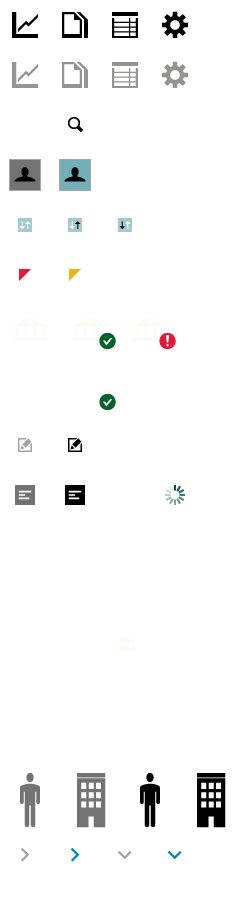
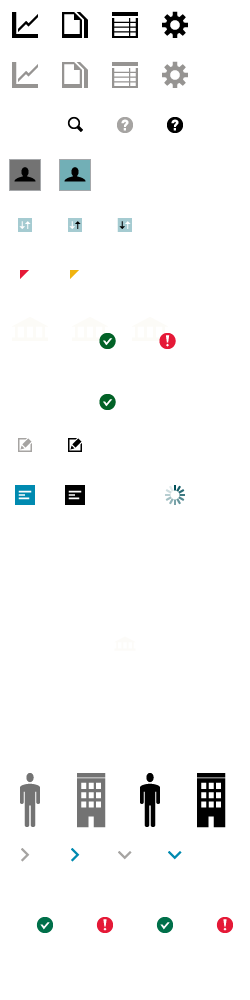
Add verification status to customer page

diff --git a/static/less/customer.less b/static/less/customer.less
@@ -7,17 +7,42 @@
     background-color: @byzantiumPurple100;
 
     .icon {
-      margin: 12px 22px 12px 22px;
-      width: 25px;
+      margin: 10px 22px 0px 22px;
+      width: 40px;
       height: 50px;
 
       &.business-info {
-        background-position: -160px -720px;
+        &.verified {
+          background-position: -135px -885px;
+        }
+        &.unverified {
+          background-position: -195px -885px;
+        }
       }
 
       &.person-info {
-        background-position: -110px -720px;
+        &.verified {
+          background-position: -15px -885px;
+        }
+        &.unverified {
+          background-position: -75px -885px;
+        }
       }
     }
+  }
+}
+
+.verification-status {
+  font-family: nimbussannov-sembol;
+  font-weight: normal;
+  font-style: normal;
+  font-size: 13px;
+
+  &.verified {
+    color: @pineGreen100;
+  }
+
+  &.unverified {
+    color: @imperialRed100;
   }
 }
